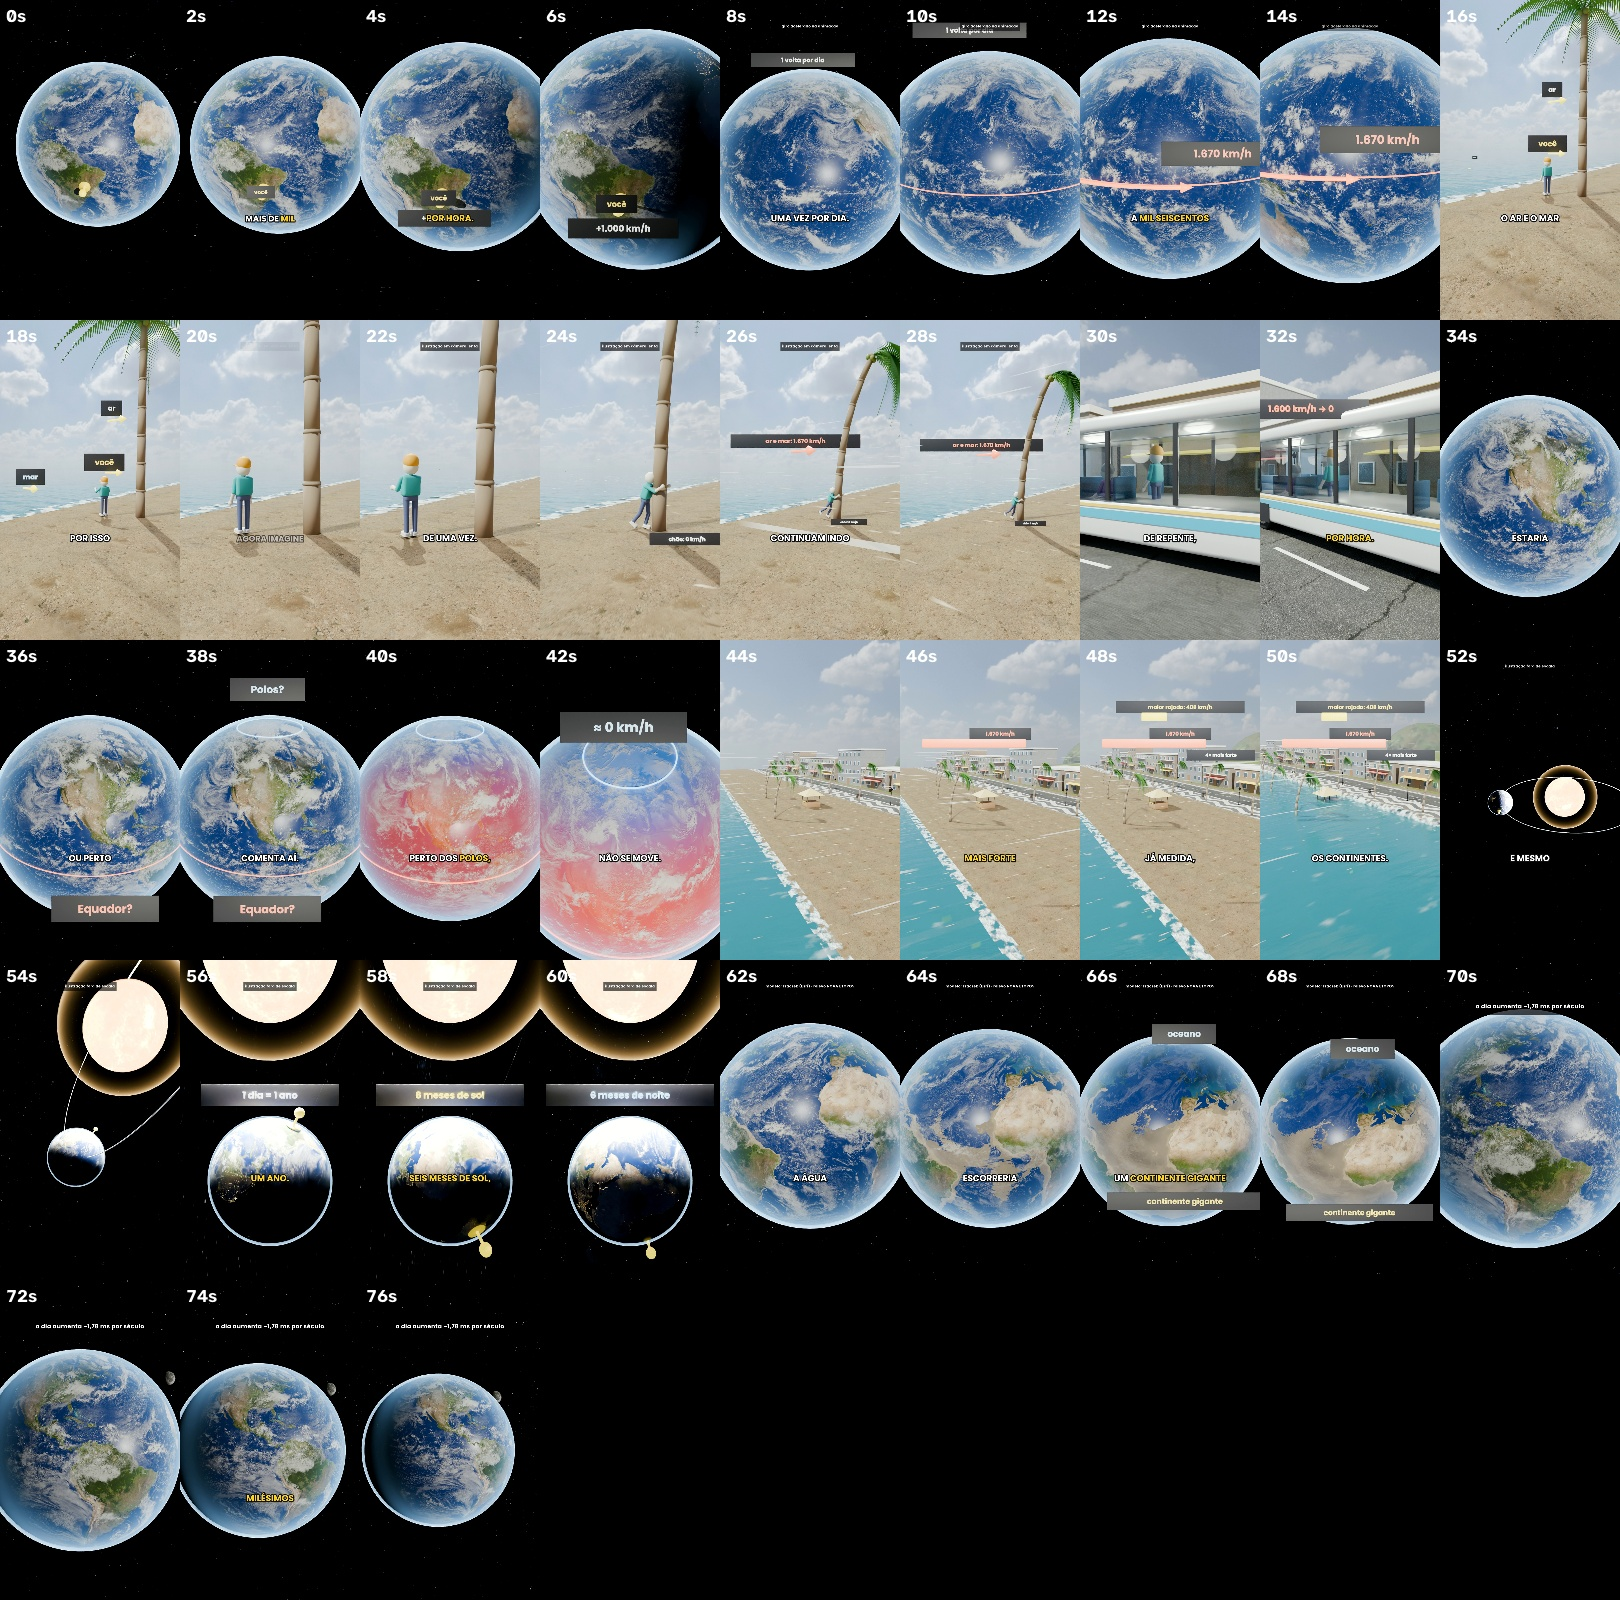
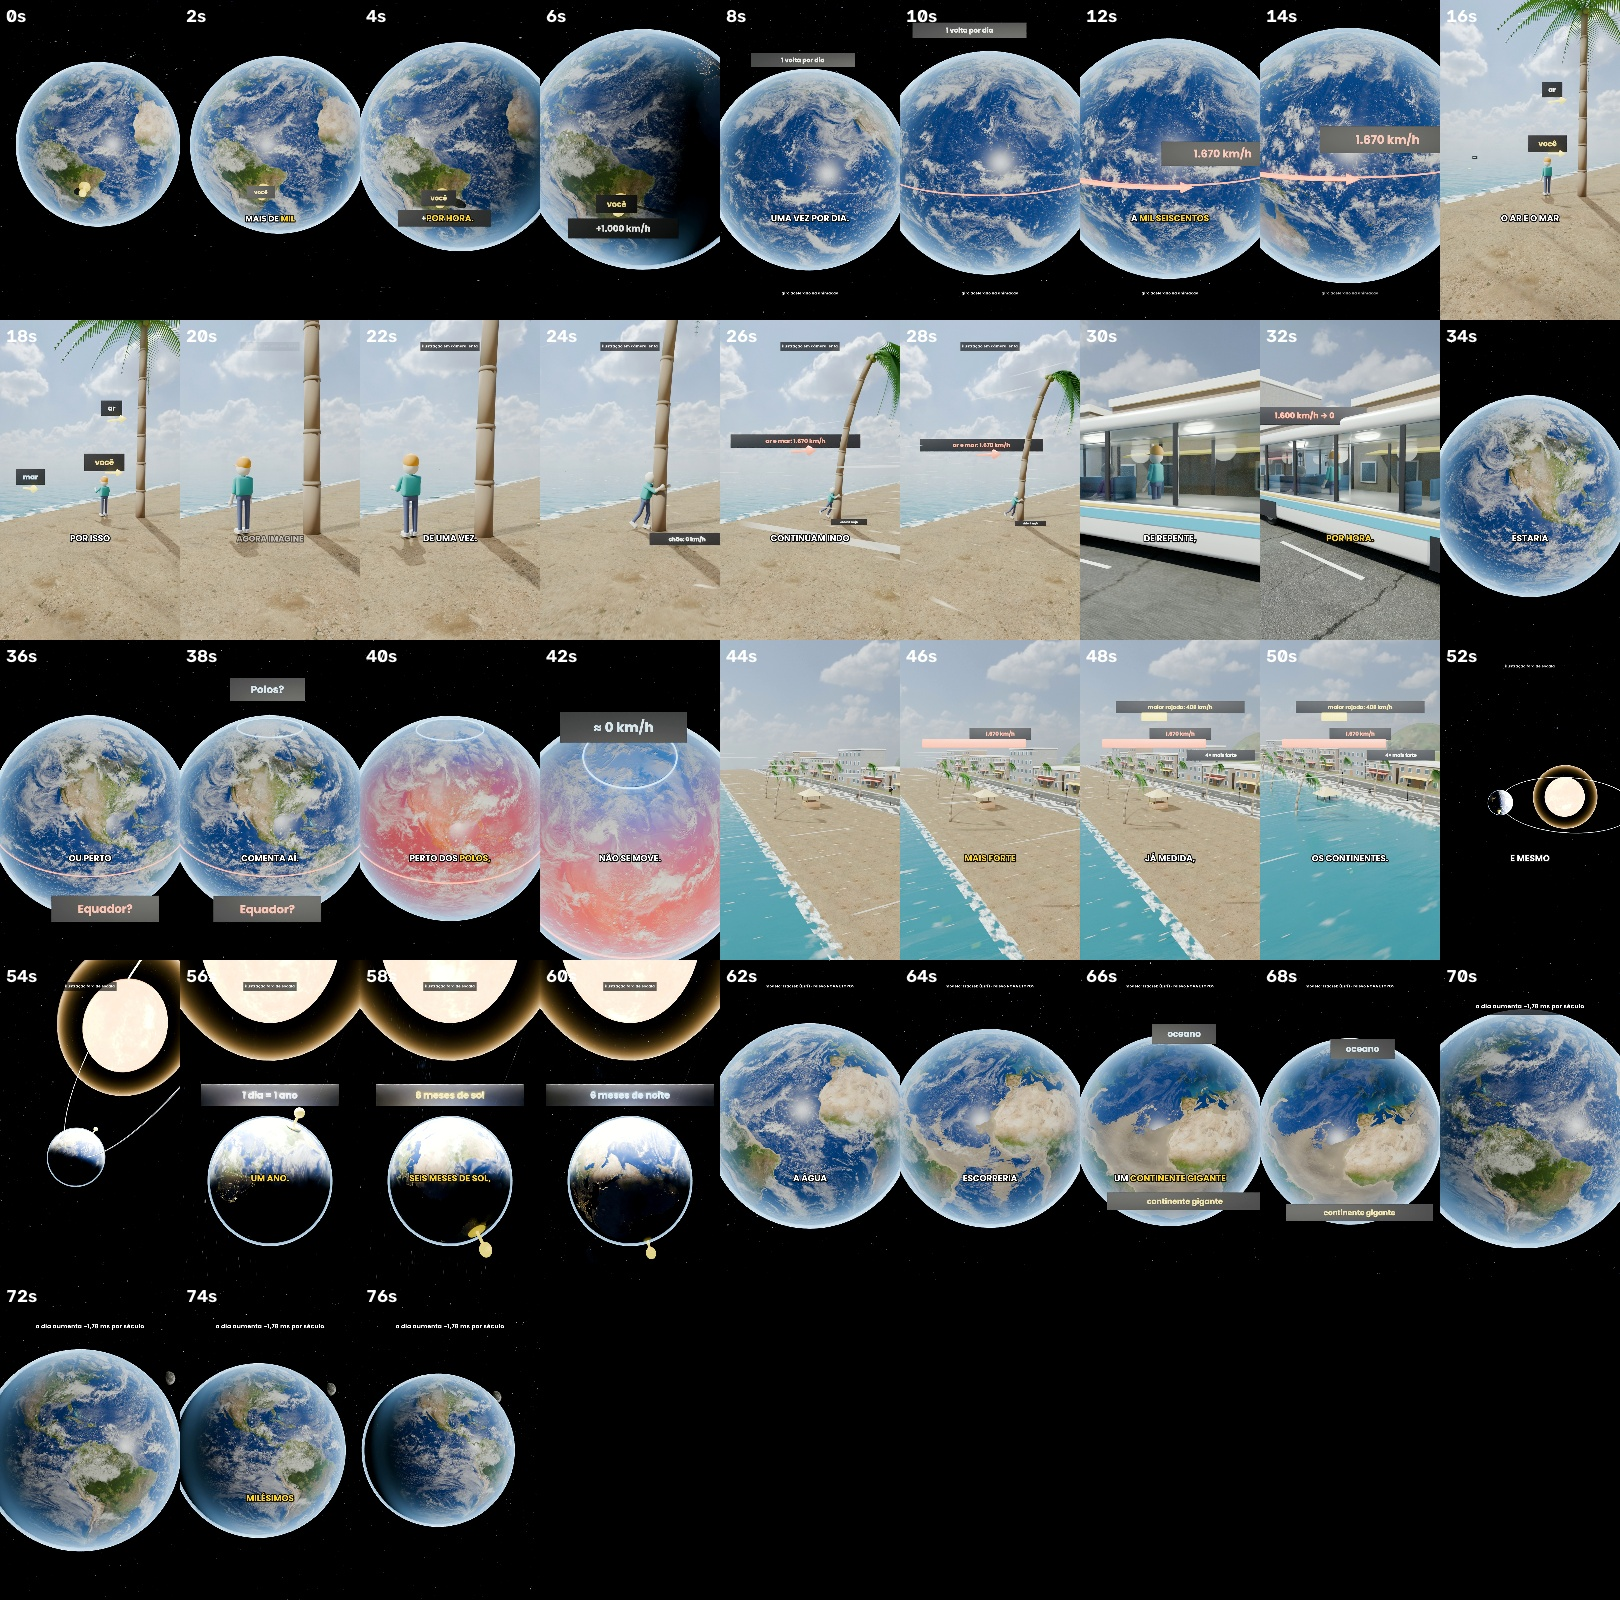
Vídeo 02 entregue (v0.3): QC aprovado, nota de legenda reposicionada, registro de mudanças e limitações
Claude-Session: https://claude.ai/code/session_01Adyz318NBz57nGHwGc8mF6

Changed region(s): [[0.7716, 0.2188, 0.8951, 0.4062], [0.5864, 0.0, 0.6173, 0.0312]]

diff --git a/projeto_videos3d/v2/captions.py b/projeto_videos3d/v2/captions.py
@@ -124,7 +124,7 @@ Format: Layer, Start, End, Style, Name, MarginL, MarginR, MarginV, Effect, Text
 L = [f"Dialogue: 1,{ts(s)},{ts(e)},Leg,,0,0,0,,{{\\fad(40,30)\\fscx92\\fscy92\\t(0,90,\\fscx100\\fscy100)}}{t}" for s, e, t in ev]
 L += [f"Dialogue: 0,{ts(s)},{ts(e)},Hud,,0,0,0,,{{\\fad(180,180)}}{t}" for s, e, t in HUD]
 NOTES = CFG.NOTES(wt) if EP and hasattr(CFG, 'NOTES') else []
-L += [f"Dialogue: 0,{ts(s)},{ts(e)},Nota,,0,0,0,,{{\\fad(200,200)}}{t}" for s, e, t in NOTES]
+L += [f"Dialogue: 0,{ts(n[0])},{ts(n[1])},Nota,,0,0,0,,{{\\fad(200,200){n[3] if len(n) > 3 else ''}}}{n[2]}" for n in NOTES]  # 4º campo opcional: tags ASS (posição)
 open(out, 'w').write(head + '\n'.join(L) + '\n')
 json.dump(dict(diffs=diffs, words=[dict(w=S[i], s=tim[i][0], e=tim[i][1], key=hl[i]) for i in range(len(S))],
                chunks=[dict(s=s, e=e, t=t) for s, e, t in ev], hud=HUD), open(out.replace('.ass', '.json'), 'w'), ensure_ascii=False, indent=0)

diff --git a/projeto_videos3d/v2/ep02/captions_cfg.py b/projeto_videos3d/v2/ep02/captions_cfg.py
@@ -5,7 +5,7 @@ HLW = ('equador', 'equador,', 'polos', 'polos?', 'leste', 'leste.')
 def HUD(wt):
     return [(wt('a boa') - 0.1, 76.4, 'o dia aumenta ~1,78 ms por século')]
 def NOTES(wt):
-    return [(6.95, 14.1, 'giro acelerado na animação'),
+    return [(6.95, 14.1, 'giro acelerado na animação', r'\an2'),  # embaixo: no topo cobriria o rótulo '1 volta por dia'
             (wt('agora imagine'), 28.15, 'ilustração em câmera lenta'),
             (wt('e mesmo uma parada'), 60.4, 'ilustração fora de escala'),
             (wt('sem o giro'), 68.85, 'modelo: Fraczek (Esri) · relevo NOAA ETOPO5')]

diff --git a/projeto_videos3d/CHANGELOG.md b/projeto_videos3d/CHANGELOG.md
@@ -5,6 +5,19 @@
 - `scripts/add_narration.py`: MP3 → MP4 com legenda sincronizada, ducking e −14 LUFS.
 - Para recuperar: `git checkout be24c75 -- projeto_videos3d` (a tag não pôde ser enviada ao GitHub: o acesso desta sessão só permite o branch de trabalho).
 
+## v0.3 — vídeo 02 "E se a Terra parasse de girar" entregue (2026-11-12)
+- Arquivo: `v2/ep02/out/02_terra_parasse_de_girar_1080x1920.mp4` (76,5 s, 2295 quadros, 30 fps, H.264 + AAC 48 kHz, 135 MB; fora do git por tamanho).
+- **Render nativo 720x1280** (Cycles, 6–9 amostras + OIDN), **ampliado para 1080x1920**. Não é render nativo em 1080x1920.
+- Narração original do usuário sem alteração de velocidade: atraso 0 ms, deriva 0 ms, correlação 0,997.
+- QC (`v2/ep02/qc_report_02.json`): todos os itens aprovados — −13,9 LUFS, pico −1,5 dBTP, sem quadros pretos/congelados, legenda com erro 0,0 s.
+- Tempo de render: ~6 h em CPU (A–K), mais 18 min para refazer o fim do plano E.
+- Texturas da Terra: Solar System Scope (CC BY 4.0); relevo: NOAA ETOPO5; modelo da redistribuição dos oceanos: Fraczek (Esri).
+- Pipeline compartilhado (`captions.py`, `assemble.py`, `qc.py`) agora aceita `EP=02`; saída do vídeo 01 conferida como idêntica (só ganhou o estilo "Nota", não usado).
+
+### Correções após o QC da v0.3
+- Plano E: câmera e ônibus ficavam parados 1,5 s (31,8–33,3 s) → recuo lento da câmera a partir de 30,6 s; quadros 918–998 refeitos (antigos guardados em `v2/ep02/frames/_bak_E_v0.2/`).
+- Nota "giro acelerado na animação" cobria o rótulo "1 volta por dia" → movida para a parte de baixo (4º campo opcional em `NOTES`).
+
 ## v0.2 — vídeo 01 "Distância de parada" entregue (2026-11-11)
 - Arquivo: `v2/out/01_distancia_de_parada_1080x1920.mp4` (68,0 s, 2040 quadros, 30 fps, H.264 + AAC 48 kHz, 143 MB; fora do git por tamanho).
 - **Render nativo 720x1280** (Cycles, 12 amostras + OIDN), **ampliado para 1080x1920** (lanczos + nitidez). Não é render nativo em 1080x1920.

diff --git a/projeto_videos3d/v2/ep02/LIMITACOES.md b/projeto_videos3d/v2/ep02/LIMITACOES.md
@@ -1,0 +1,9 @@
+# Limitações conhecidas — vídeo 02
+
+- Resolução: render nativo 720x1280, ampliado para 1080x1920.
+- Escala e tempo são ilustrativos: giro acelerado (plano B), câmera lenta na parada (C–E), órbita fora de escala (I). Cada trecho tem nota na tela.
+- O mapa do "continente gigante" (J) é uma aproximação do modelo de Fraczek (Esri) feita com o relevo ETOPO5 de 5′ — não é o mapa original.
+- A tempestade (H) é estilizada: vento por partículas e mar subindo por deslocamento simples, sem simulação de fluidos.
+- Personagens e ônibus são estilizados (low-poly com PBR); sem refração real nos vidros.
+- Efeitos sonoros e música sintetizados por código (sem bibliotecas licenciadas).
+- Crédito obrigatório na descrição do post: "Texturas da Terra: Solar System Scope (CC BY 4.0) · Relevo: NOAA ETOPO5".
